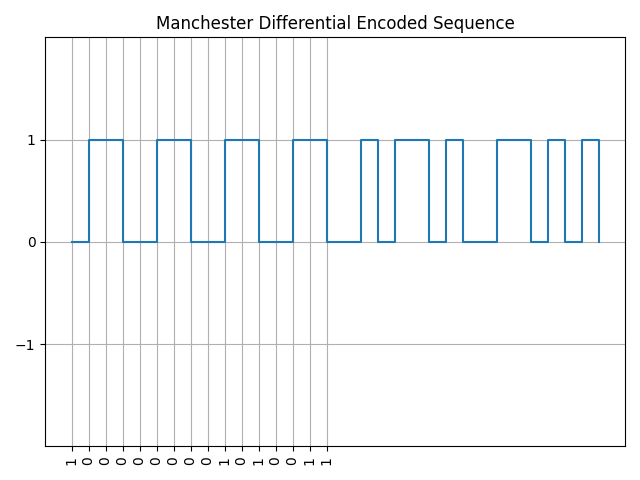
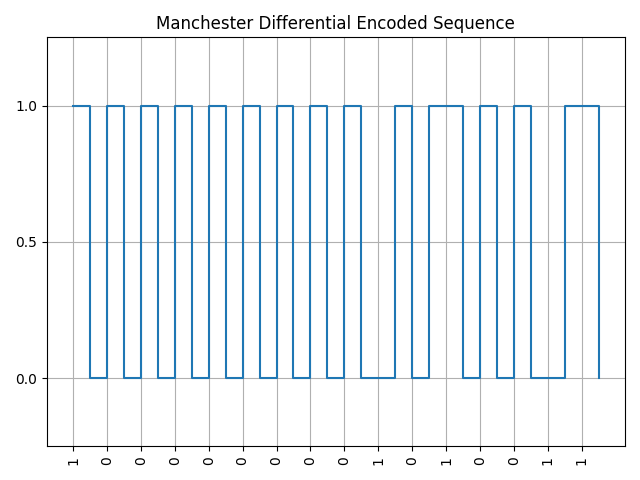
plotting manchester-differential

diff --git a/project/utils/plot_encoding.py b/project/utils/plot_encoding.py
@@ -1,14 +1,45 @@
 import matplotlib.pyplot as plt
 
-def plot_signal(bits, signal, title, file_path):
-    time = list(range(len(signal)))
+def plot_signal(bits, signal, title, file_path, negative_ylim=0.25, manchester=False):
+    if manchester:
+        # Criar o eixo do tempo e duplicar o sinal corretamente
+        time = []
+        signal_expanded = []
+        
+        for i in range(len(bits)):
+            # Cada bit deve ocupar dois espaços no eixo X
+            time.append(i * 2)        # Primeiro espaço
+            time.append(i * 2 + 1)    # Segundo espaço
+            
+            # Expande o sinal para duas amostras por bit
+            signal_expanded.append(signal[2 * i])
+            signal_expanded.append(signal[2 * i + 1])
+        
+        # Ajustando os rótulos do eixo X para que cada bit ocupe dois espaços
+        ticks = []
+        labels = []
+        for i in range(len(bits)):
+            ticks.append(i * 2)  # Coloca o rótulo no meio de cada par de espaços
+            labels.append(bits[i])     # Coloca o bit como rótulo
+        
+    else:
+        # Código padrão para outros tipos de codificação
+        time = list(range(len(signal)))
+        signal_expanded = signal
+        ticks = range(len(bits))
+        labels = bits
+
+    # Plot do sinal
     plt.figure()
-    plt.step(time, signal, where='post')
+    plt.step(time, signal_expanded, where='post')
     plt.title(title)
-    plt.ylim(-2, 2)
+    plt.ylim(-negative_ylim, 1.25)
     plt.grid(True)
-    plt.yticks([-1, 0, 1])
-    plt.xticks(range(len(bits)), bits, rotation='vertical')
+    plt.yticks([0, 0.5, 1])
+    
+    # Ajustando os rótulos dos bits no eixo X
+    plt.xticks(ticks, labels, rotation='vertical')
+    
     plt.tight_layout()
     plt.savefig(file_path)
     plt.close()

diff --git a/project/manchester_diferencial/manchester_differential_plot.py b/project/manchester_diferencial/manchester_differential_plot.py
@@ -16,7 +16,7 @@ def plot_manchester_differential():
     print(f"Sequência 1: {''.join(str(bit) for bit in signal_1)}\nSequência 2: {''.join(str(bit) for bit in signal_2)}\n")
 
     # Gráfico do sinal NZRI codificado
-    plot_signal(SEQUENCE_1, signal_1, "Manchester Differential Encoded Sequence", os.path.join(output_dir, "manchester_differential_encoded_signal1"))
+    plot_signal(SEQUENCE_1, signal_1, "Manchester Differential Encoded Sequence", os.path.join(output_dir, "manchester_differential_encoded_signal1"), manchester=True)
 
     # Gráfico do sinal 2 NZRI codificado
-    plot_signal(SEQUENCE_2, signal_2, "Manchester Differential Encoded Sequence", os.path.join(output_dir, "manchester_differential_encoded_signal2"))
+    plot_signal(SEQUENCE_2, signal_2, "Manchester Differential Encoded Sequence", os.path.join(output_dir, "manchester_differential_encoded_signal2"), manchester=True)

diff --git a/project/hdb3/hdb3_plot.py b/project/hdb3/hdb3_plot.py
@@ -16,7 +16,7 @@ def plot_hdb3():
     print(f"Sequência 1: {''.join(str(bit) for bit in signal_1)}\nSequência 2: {''.join(str(bit) for bit in signal_2)}\n")
 
     # Gráfico do sinal HDB3 codificado
-    plot_signal(SEQUENCE_1, signal_1, "HDB3 Encoded Sequence", os.path.join(outpur_dir, "hdb3_encoded_signal1"))
+    plot_signal(SEQUENCE_1, signal_1, "HDB3 Encoded Sequence", os.path.join(outpur_dir, "hdb3_encoded_signal1"), negative_ylim=1.5)
 
     # Gráfico do sinal 2 HDB3 codificado
-    plot_signal(SEQUENCE_2, signal_2, "HDB3 Encoded Sequence", os.path.join(outpur_dir, "hdb3_encoded_signal2"))
+    plot_signal(SEQUENCE_2, signal_2, "HDB3 Encoded Sequence", os.path.join(outpur_dir, "hdb3_encoded_signal2"), negative_ylim=1.5)

diff --git a/project/manchester_diferencial/manchester_differential_encode.py b/project/manchester_diferencial/manchester_differential_encode.py
@@ -1,10 +1,11 @@
 def manchester_differential(bits):
     result = []
-    previous = 0
+    previous = 1  # Começamos com o nível alto
+
     for bit in bits:
         if bit == '1':
             result.extend([previous, 1 - previous])
-        else:
             previous = 1 - previous
-            result.extend([previous, 1 - previous])
+        else:
+            result.extend([1 - previous, previous])
     return result
